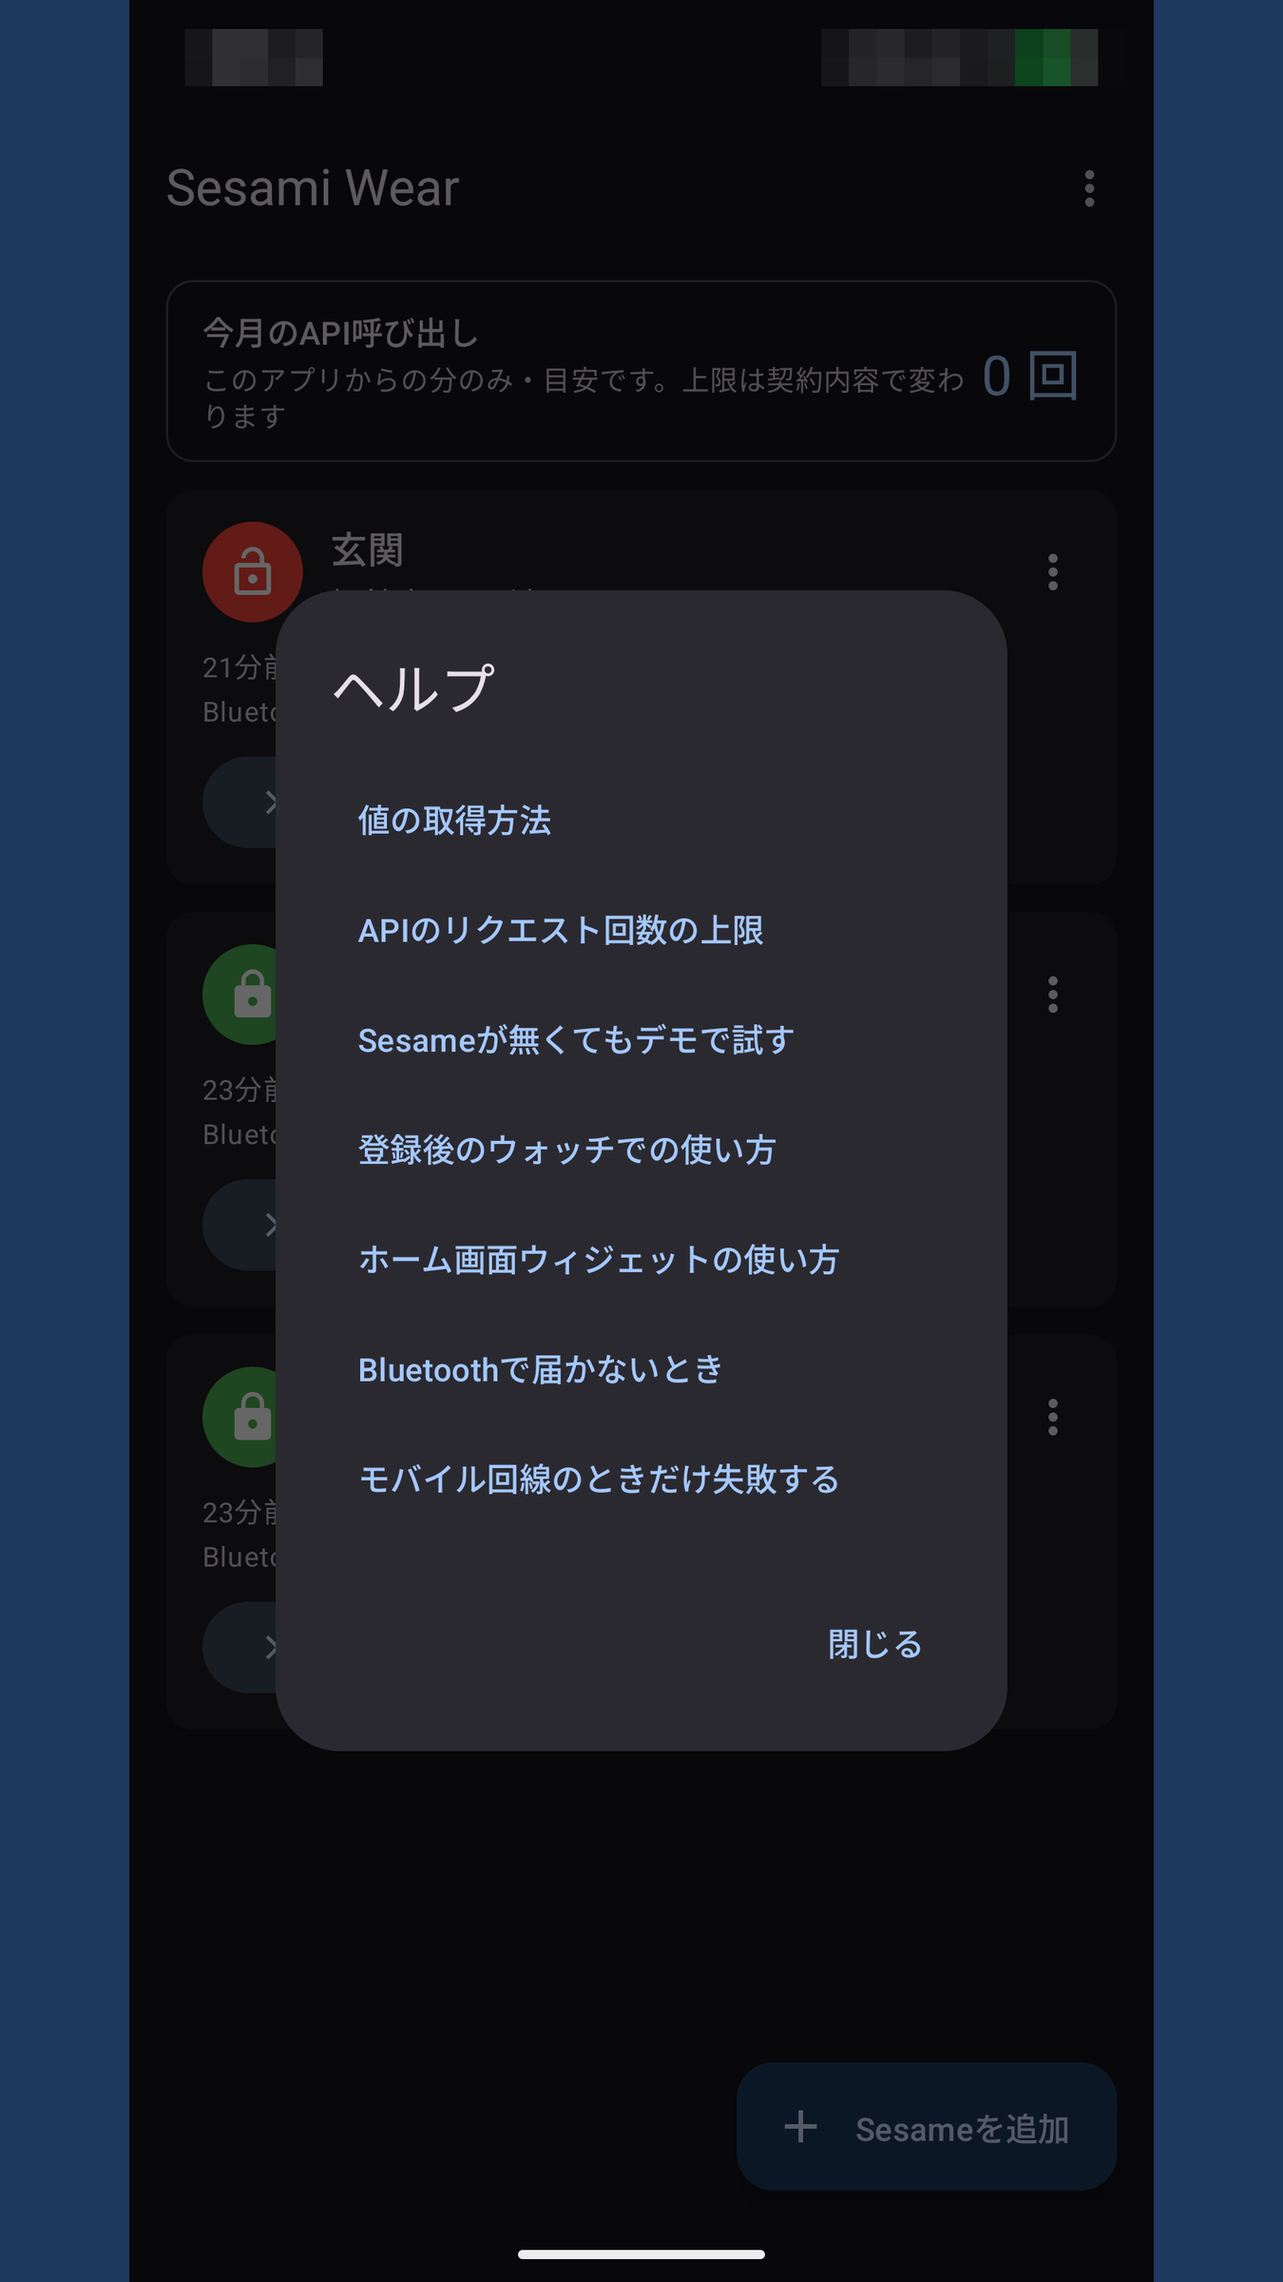
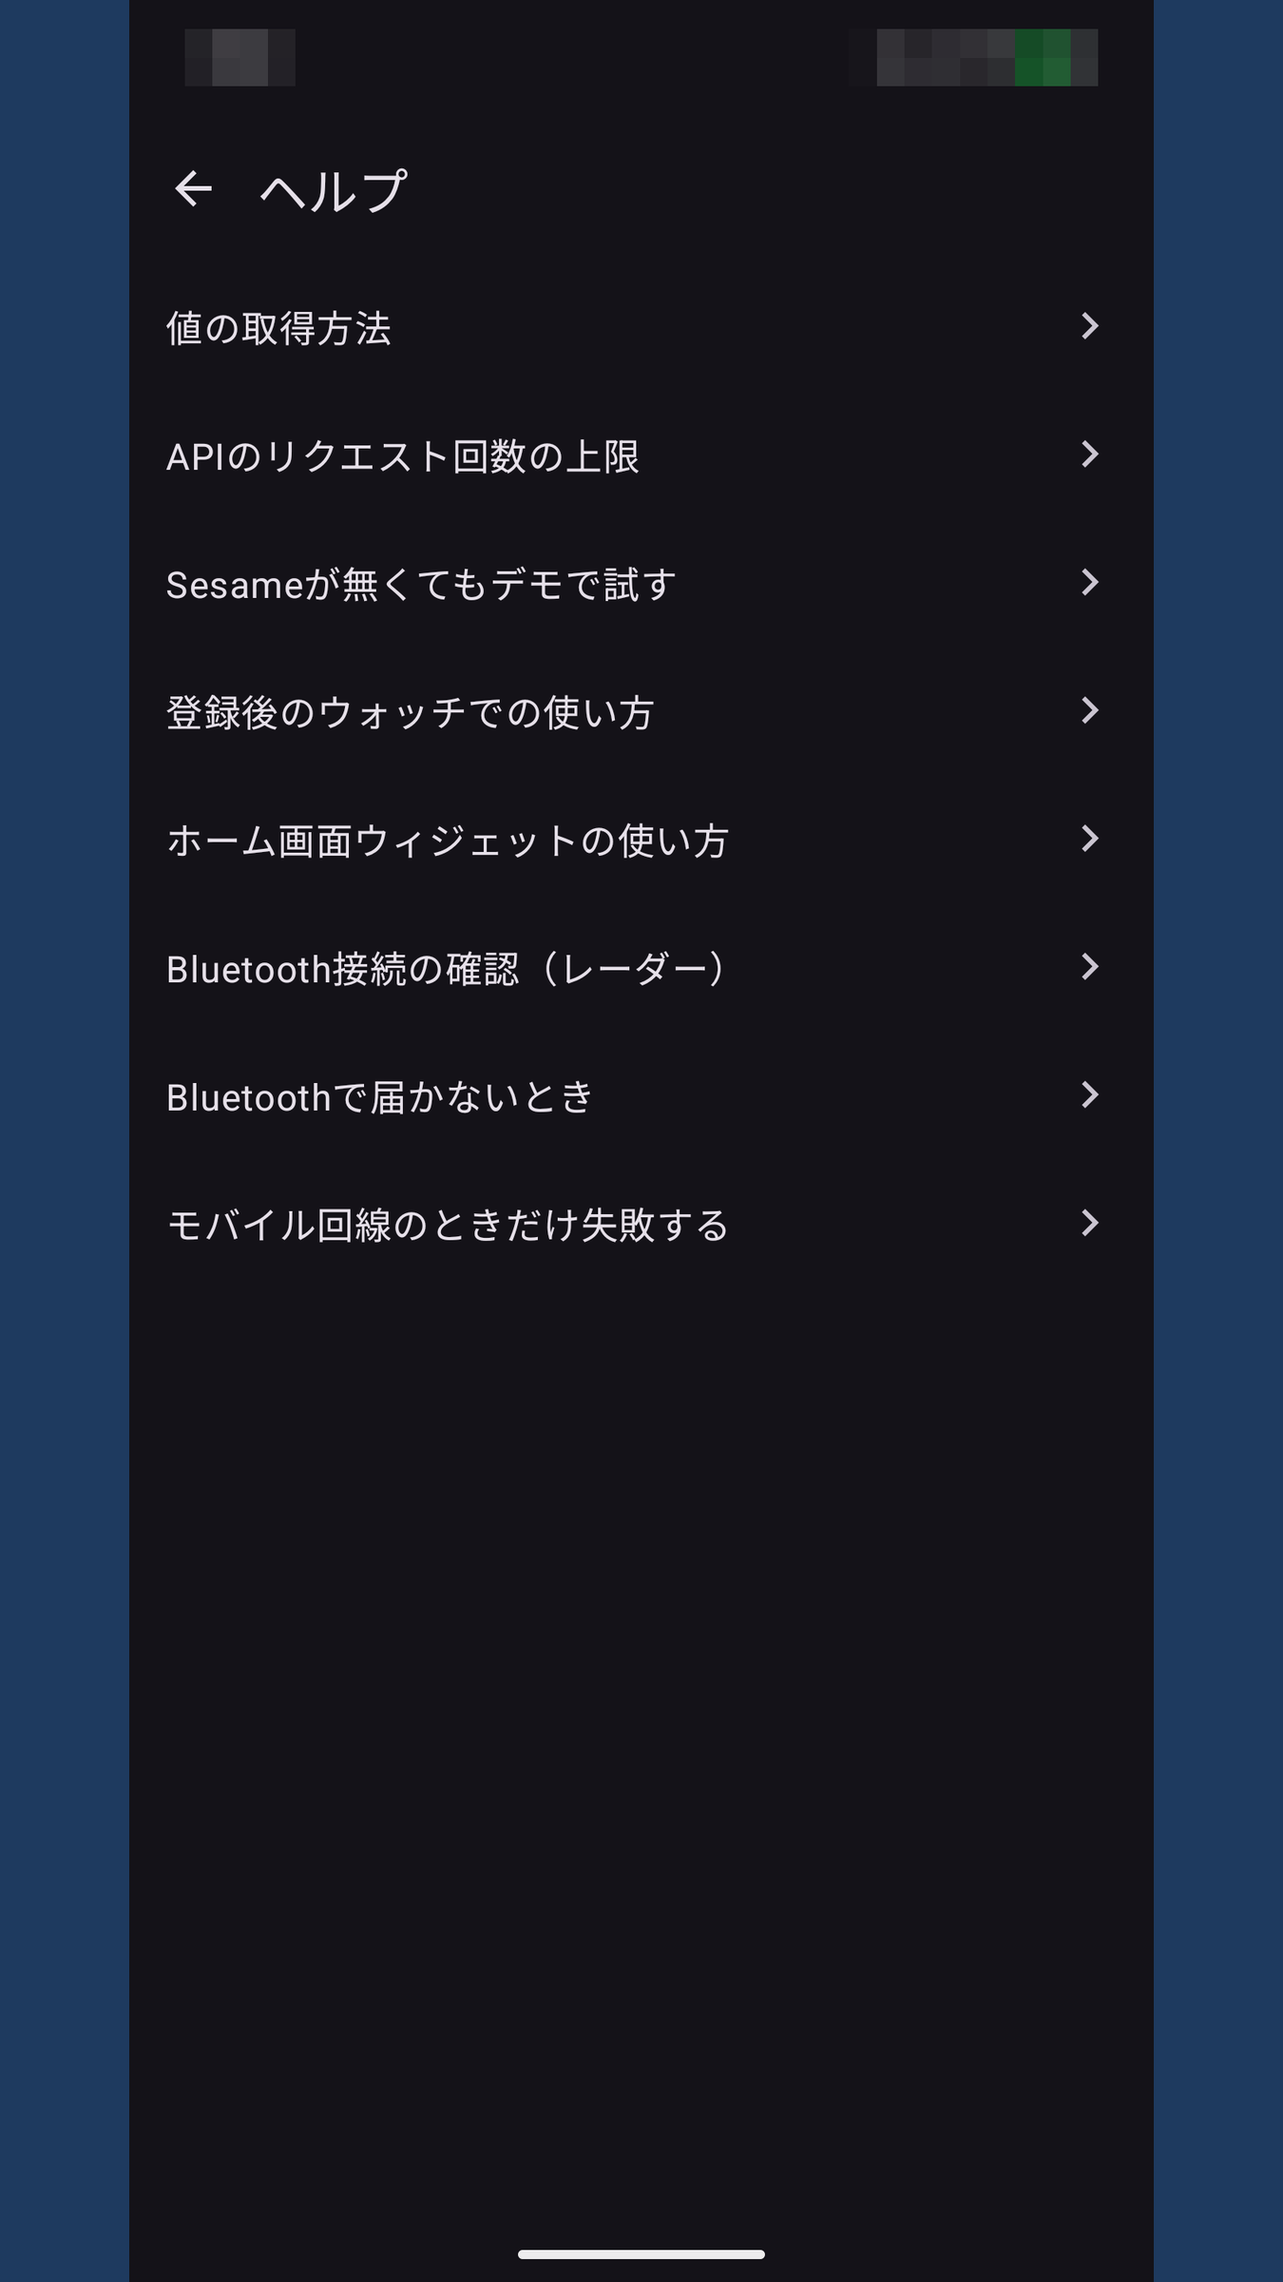
docs: 🚀 0.16.0のリリース準備と掲載スクリーンショット3点の撮り直し
対象: BL-284, BL-285

- RELEASE_NOTESの未リリースを0.16.0(2026-11-08)へ確定し、version.propertiesを
  versionCode 15 / wear 1013 / versionName 0.16.0へ更新(署名付きAAB x2ビルド済み)
- 紹介ページの版表記、USER_GUIDEの「次のバージョン以降」を0.16.0へ更新
- phone_4 / phone_5 / phone_7 を実機の撮影モードで撮り直し、紹介ページの画像と説明を追随
- BACKLOGへ配信・タグ作成(BL-285)を起票し、BL-284をPlay Consoleの差し替えのみに整理

品質ゲート: ktlint / detekt / lintDebug / 単体テスト / assembleDebug / markdownlint / 記録検証すべて成功

Claude-Session: https://claude.ai/code/session_01WnqNbaNbKwV6c5SNHH6CXg

diff --git a/site/index.html b/site/index.html
@@ -57,7 +57,7 @@
             <a class="button primary" href="https://github.com/filderschoice/sesami-wear/blob/main/docs/CLOSED_TEST.md">クローズドテストに参加</a>
             <a class="button" href="https://github.com/filderschoice/sesami-wear">ソースコード</a>
           </div>
-          <p class="meta">v0.15.1 ・ Android 8.0 以上 ・ Wear OS 3 以上（任意） ・ MIT License ・ 広告なし</p>
+          <p class="meta">v0.16.0 ・ Android 8.0 以上 ・ Wear OS 3 以上（任意） ・ MIT License ・ 広告なし</p>
         </div>
         <div class="hero-visual">
           <img src="assets/phone-widget.png" alt="スマートフォンのホーム画面に置いた Sesami Wear の大小2つのウィジェット。全デバイスが施錠中の状態と取得日時、更新・変更のボタンが表示されている（壁紙とステータスバーはぼかし加工）" width="450" height="800">
@@ -215,7 +215,7 @@
         <p class="section-lead">Pixel 8 Pro での表示です（0.14.3。個人情報の写る部分は加工しています）。</p>
         <ul class="features">
           <li class="card">
-            <img class="phone" src="assets/phone-4-device-list.png" alt="アプリのデバイス一覧。玄関・勝手口・ガレージの3台が、施錠状態・電池残量・経路とともに並ぶ" width="450" height="800" loading="lazy">
+            <img class="phone" src="assets/phone-4-device-list.png" alt="アプリのデバイス一覧。玄関・勝手口・ガレージの3台が、施錠状態・電池残量・経路とともに並び、右上のBluetoothアイコンと各カードの接続確認から接続を確かめられる" width="450" height="800" loading="lazy">
             <h3>デバイス一覧</h3>
             <p>状態・電池残量・操作した経路を、デバイスごとに確認できます。</p>
           </li>
@@ -230,12 +230,12 @@
             <p>3 点を入力するだけ。端末内に暗号化して保存します（画面の値はダミー）。</p>
           </li>
           <li class="card">
-            <img class="phone" src="assets/phone-5-menu.png" alt="アプリのメニュー。操作の経路、通知、ヘルプ、操作履歴（診断ログ）の項目が並ぶ" width="450" height="800" loading="lazy">
+            <img class="phone" src="assets/phone-5-menu.png" alt="アプリの設定画面。接続（操作の経路・Bluetoothで直接操作）、通知、ホーム画面、サポート（ヘルプ・操作履歴）の項目が並ぶ" width="450" height="800" loading="lazy">
             <h3>設定メニュー</h3>
             <p>経路の優先順位や通知、操作履歴（診断ログ）をここから設定します。</p>
           </li>
           <li class="card">
-            <img class="phone" src="assets/phone-7-help.png" alt="アプリ内ヘルプ。値の取得方法やデモで試す方法などの項目が一覧になっている" width="450" height="800" loading="lazy">
+            <img class="phone" src="assets/phone-7-help.png" alt="アプリ内ヘルプ。値の取得方法やデモで試す方法、Bluetooth接続の確認（レーダー）などの項目が一覧になっている" width="450" height="800" loading="lazy">
             <h3>アプリ内ヘルプ</h3>
             <p>値の取得方法やデモの使い方を、アプリの中で確認できます。</p>
           </li>

diff --git a/docs/records/managed/BACKLOG.md b/docs/records/managed/BACKLOG.md
@@ -5,25 +5,42 @@
 
 <!-- COPILOT_RECORDS:BEGIN -->
 ```yaml
-- id: BL-284
+- id: BL-285
   区分: 人手検証
   タスク内容: >-
-    スマートフォンの設定を歯車から開く設定画面へ再編した（2026-11-08）ため、掲載用スクリーンショットのうち
-    旧UIのものを撮り直す。対象は docs/store/images/screenshots/phone_5_menu.png（旧「⋮」メニュー。新しい設定画面へ）、
-    phone_7_help.png（旧ヘルプのダイアログ。新しいヘルプ一覧のページへ）、phone_4_device_list.png（主画面。右上の
-    Bluetoothアイコンと一覧末尾の「全デバイスの接続確認」が入った2台の一覧へ）。撮り直したら docs/store/README.md の
-    説明と、紹介ページ（site/assets の phone-5-menu.png・phone-7-help.png・phone-4-device-list.png と site/index.html の
-    説明文）も同じ元画像から作り直す。撮影は撮影モード（README.md）で実デバイスに触れずにできる。
-    マスク加工は Skill store-screenshot-masking、Play Consoleへの差し替えはユーザーが行う。
-  優先度: P3
+    0.16.0（mobile versionCode 15 / wear versionCode 1013）を Google Play のクローズドテストへ配信する。
+    署名付きAABは作成済み（mobile/build/outputs/bundle/release/mobile-release.aab を電話・タブレット系トラックへ、
+    wear/build/outputs/bundle/release/wear-release.aab を Wear OS 専用トラックへ。両AABの署名SHA256は一致確認済み）。
+    「このリリースの新機能」欄には docs/RELEASE_NOTES.md の0.16.0「ストア掲載用の要約」を転記する。
+    実機検証（docs/verification/VERIFICATION-0.16.0.local.md）の結果を確認してから提出する。
+    両トラックで公開中になったら、リリース準備のマージコミットへ注釈付きタグ v0.16.0 を作成し GitHub Release を
+    公開する（Skill github-release-publish）。紹介ページの gh-pages 反映もこのとき行う。
+  優先度: P2
   状態: 未着手
   担当: ユーザー
   完了条件: >-
-    掲載画像3点と紹介ページの画像が新しいUIに差し替わり、docs/store/README.md と site/index.html の説明が
-    画像の内容と一致していること
+    0.16.0 が両トラックで公開中で、タグ v0.16.0 と GitHub Release が作成されていること
   根拠: >-
-    実機での撮影と、Play Consoleの画像差し替え（ブラウザ操作・外部への公開）が要るため、
-    自律ループ実行モードでは完了できない（rules/guardrails-unified.v1.md セクション12.2）。
+    Play Console の操作・git push・タグ公開はユーザー作業（rules/guardrails-unified.v1.md セクション12.2）。
+    実機検証の合否はユーザーの確認が要る。
+  依存: []
+
+- id: BL-284
+  区分: 人手検証
+  タスク内容: >-
+    設定画面の再編・接続確認の追加に合わせて、掲載用スクリーンショット3点（phone_4_device_list / phone_5_menu /
+    phone_7_help）を撮り直し済み（2026-11-08、Pixel 8 Pro実機の撮影モード。docs/store/images/screenshots/ と
+    site/assets の画像、docs/store/README.md・STORE_LISTING.md・site/index.html の説明も更新済み）。
+    残りは Play Console の掲載画像（スマートフォン用）の差し替えで、旧3点を削除してから新しい3点を入れ直す。
+    紹介ページ（site/）の反映は main へマージ後に site/README.md の手順で行う。
+  優先度: P3
+  状態: 進行中
+  担当: ユーザー
+  完了条件: >-
+    Play Console のスマートフォン用スクリーンショットが新しい3点へ差し替わっていること
+  根拠: >-
+    Play Console の画像差し替え（ブラウザ操作・外部への公開）は自律ループ実行モードでは行えない
+    （rules/guardrails-unified.v1.md セクション12.2）。
   依存: []
 
 - id: BL-195

diff --git a/docs/store/README.md b/docs/store/README.md
@@ -21,10 +21,10 @@ Google Play Console へ提出する掲載情報を、このディレクトリで
 | `phone_1_widget_locked.png` | ホーム画面ウィジェット（全施錠中、タップで全解錠）。2x1と4x2を並べて表示。取得時刻は日時表示。アプリのウィジェット一覧のプレビュー画像の元でもある（差し替えたら `scripts/make-widget-previews.py` で作り直す） | 1350x2400 |
 | `phone_2_widget_unlock_confirm.png` | ウィジェットからの解錠確認ダイアログ（全デバイス） | 1350x2400 |
 | `phone_3_widget_unlocked.png` | ホーム画面ウィジェット。2x1は1台（玄関、解錠中）、4x2は全デバイス（一部解錠、タップで全施錠） | 1350x2400 |
-| `phone_4_device_list.png` | アプリ主画面（Sesameごとのカード。状態バッジ・電池・角度・最終取得時刻・経路・Bluetoothの到達状況・ダイヤル操作の入口・API呼び出し回数） | 1350x2400 |
-| `phone_5_menu.png` | 右上の「⋮」メニュー（操作の経路・Bluetoothで直接操作・経路の通知・お知らせ・ヘルプ・操作履歴（診断ログ）） | 1350x2400 |
+| `phone_4_device_list.png` | アプリ主画面（Sesameごとのカード。状態バッジ・電池・角度・最終取得時刻・経路・Bluetoothの到達状況・ダイヤル操作の入口・API呼び出し回数。右上のBluetoothアイコンと、一覧末尾の「全デバイスの接続確認」・各カードの「接続確認」を含む） | 1350x2400 |
+| `phone_5_menu.png` | 右上の歯車「⚙」から開く設定画面（接続＝操作の経路・Bluetoothで直接操作／通知／ホーム画面＝ウィジェットを追加／サポート＝ヘルプ・操作履歴（診断ログ）） | 1350x2400 |
 | `phone_6_device_edit.png` | Sesameの追加・編集画面（表示名・uuid・apikey・secretKey。値はダミー） | 1350x2400 |
-| `phone_7_help.png` | ヘルプのメニュー（値の取得方法・APIの上限・デモ・ウォッチ・ウィジェット・Bluetooth・モバイル回線） | 1350x2400 |
+| `phone_7_help.png` | ヘルプの一覧（値の取得方法・APIの上限・デモ・ウォッチ・ウィジェット・Bluetooth接続の確認（レーダー）・Bluetoothで届かないとき・モバイル回線） | 1350x2400 |
 | `phone_8_dial.png` | ダイヤル操作（Bluetoothで直接操作。サムターンの角度を針で表示し、半周なぞって施錠・解錠） | 1350x2400 |
 | `wear_1_complication.png` | ウォッチフェイスのコンプリケーション（施錠状態の表示） | 384x384 |
 | `wear_2_tile_locked.png` | タイル（全施錠中、タップで全解錠） | 384x384 |
@@ -33,6 +33,9 @@ Google Play Console へ提出する掲載情報を、このディレクトリで
 | `wear_5_unlock_confirm.png` | 解錠時の確認画面（キャンセル／全解錠） | 384x384 |
 | `wear_6_device_select.png` | 操作対象デバイスの選択画面 | 384x384 |
 
+- 2026-11-08に、設定画面の再編・接続確認の追加に合わせて `phone_4_device_list` / `phone_5_menu` / `phone_7_help` の3点を
+  Pixel 8 Pro実機（ダークテーマ・撮影モードの見本の3台・「目印を10分隠す」）で撮り直しました（BL-284）。
+  アプリ内の画面のためステータスバーだけをモザイクにしています。
 - スマートフォン用の `phone_1`〜`phone_8` は、2026-10-17にPixel 8 Pro実機（ダークテーマ）で撮り直しました
   （0.14.3。ウィジェットの日時表示・UIのモダン化・「操作履歴（診断ログ）」への改名・ダイヤル操作の追加、
   BL-236 / BL-237 / BL-243 / BL-245 を反映。BL-250）。デバッグ版の撮影モード（README.md「撮影モード（デバッグ版のみ）」）

diff --git a/CHANGELOG.md b/CHANGELOG.md
@@ -7,6 +7,23 @@
 - コード修正1件ごとの実施記録: [docs/records/managed/EXECUTE.md](docs/records/managed/EXECUTE.md)
 - 本ファイル: 上記以外（運用ルール、ドキュメント構成、ガードレールの変更）
 
+## 2026-11-08（0.16.0のリリース準備、BL-284 / BL-285）
+
+接続確認（BL-271〜BL-283）と設定画面の再編を含む 0.16.0 を Google Play のクローズドテストへ配信するための
+準備を行いました（自律ループ実行モード）。
+
+- **[docs/RELEASE_NOTES.md](docs/RELEASE_NOTES.md)** の「未リリース」を 0.16.0（2026-11-08）へ確定しました
+  （「ストア掲載用の要約」は記載済み）。**`scripts/version.properties`** を `versionCode 15` / `wear 1013` /
+  `versionName 0.16.0` へ更新し、署名付きAAB×2をビルドしました（`scripts/release-build.bat -VersionName 0.16.0`。
+  両AABの署名SHA256は一致）。
+- **紹介ページ**（`site/app.json` / `site/index.html`）の版表記を 0.16.0 へ、**`docs/USER_GUIDE.md`** の
+  「次のバージョン以降」を「0.16.0以降」へ更新しました。
+- **掲載用スクリーンショット3点**（`phone_4_device_list` / `phone_5_menu` / `phone_7_help`）を、Pixel 8 Pro実機の
+  撮影モード（見本の3台）で撮り直しました。紹介ページの同名画像と、`docs/store/README.md`・`STORE_LISTING.md`・
+  `site/index.html` の説明も追随させました（BL-284。Play Consoleの差し替えは残件）。
+- **BACKLOG.md** へ 0.16.0 の配信・タグ・GitHub Release を BL-285（ユーザー担当）として起票し、BL-284 を
+  Play Consoleの差し替えだけに絞りました。
+
 ## 2026-11-09（UIデザイン設計書を現行のUIへ追従）
 
 `docs/design/UI_DESIGN.html` を、2026-10-20版（対象コミット acdb02b）から現行のUIへ更新しました（ユーザー指示。

diff --git a/docs/store/STORE_LISTING.md b/docs/store/STORE_LISTING.md
@@ -141,7 +141,9 @@ Markdownを解釈しないため、転記時は見出し・箇条書きの記法
 スマートフォン用8枚とWear OS用6枚を [images/screenshots/](images/screenshots/) に用意済みです。
 内訳と加工内容は [README.md](README.md)「ファイル一覧」を参照してください。
 
-- スマートフォン用: 8枚とも0.14.3の表示でPixel 8 Pro実機（デバッグ版の撮影モード）を使って撮影しています
+- スマートフォン用: `phone_4_device_list` / `phone_5_menu` / `phone_7_help` は0.16.0の表示で2026-11-08に撮り直しました
+  （設定画面・接続確認の追加を反映。BL-284）。残る5枚は0.14.3の表示です。
+- スマートフォン用: 撮影はいずれも0.14.3の表示でPixel 8 Pro実機（デバッグ版の撮影モード）を使って撮影しています
   （2026-10-17。ステータスバーはモザイク、ホーム画面の3枚はドックもモザイクにし壁紙はぼかし）。
   0.14.3でダイヤル操作の画面（`phone_8_dial.png`）を加えました。
 - Wear OS用: タイル3枚とデバイス選択は0.14.0の表示でPixel Watch 2実機を使って撮影しています
